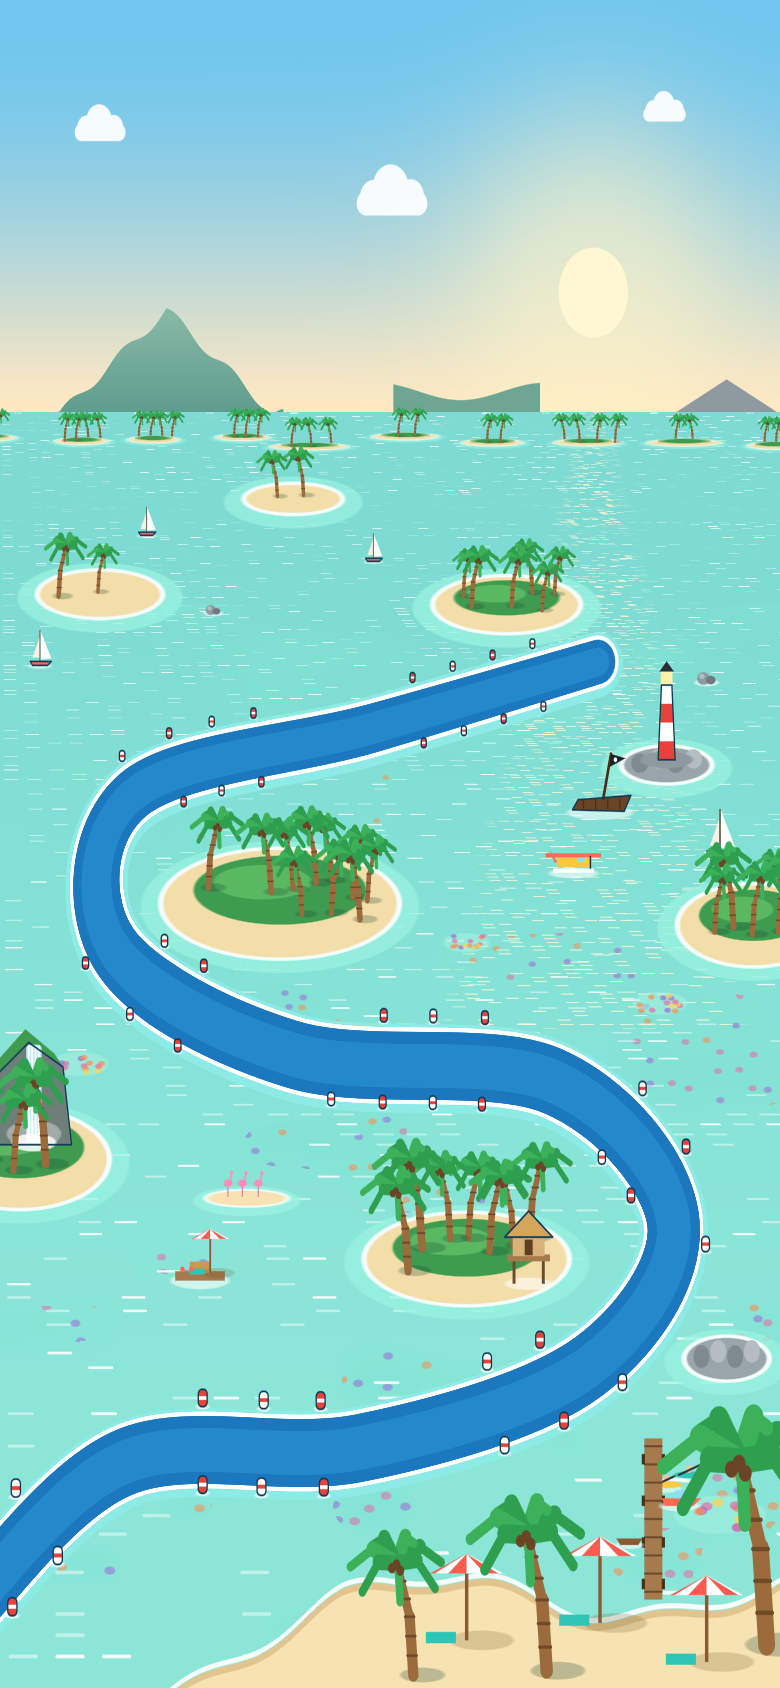
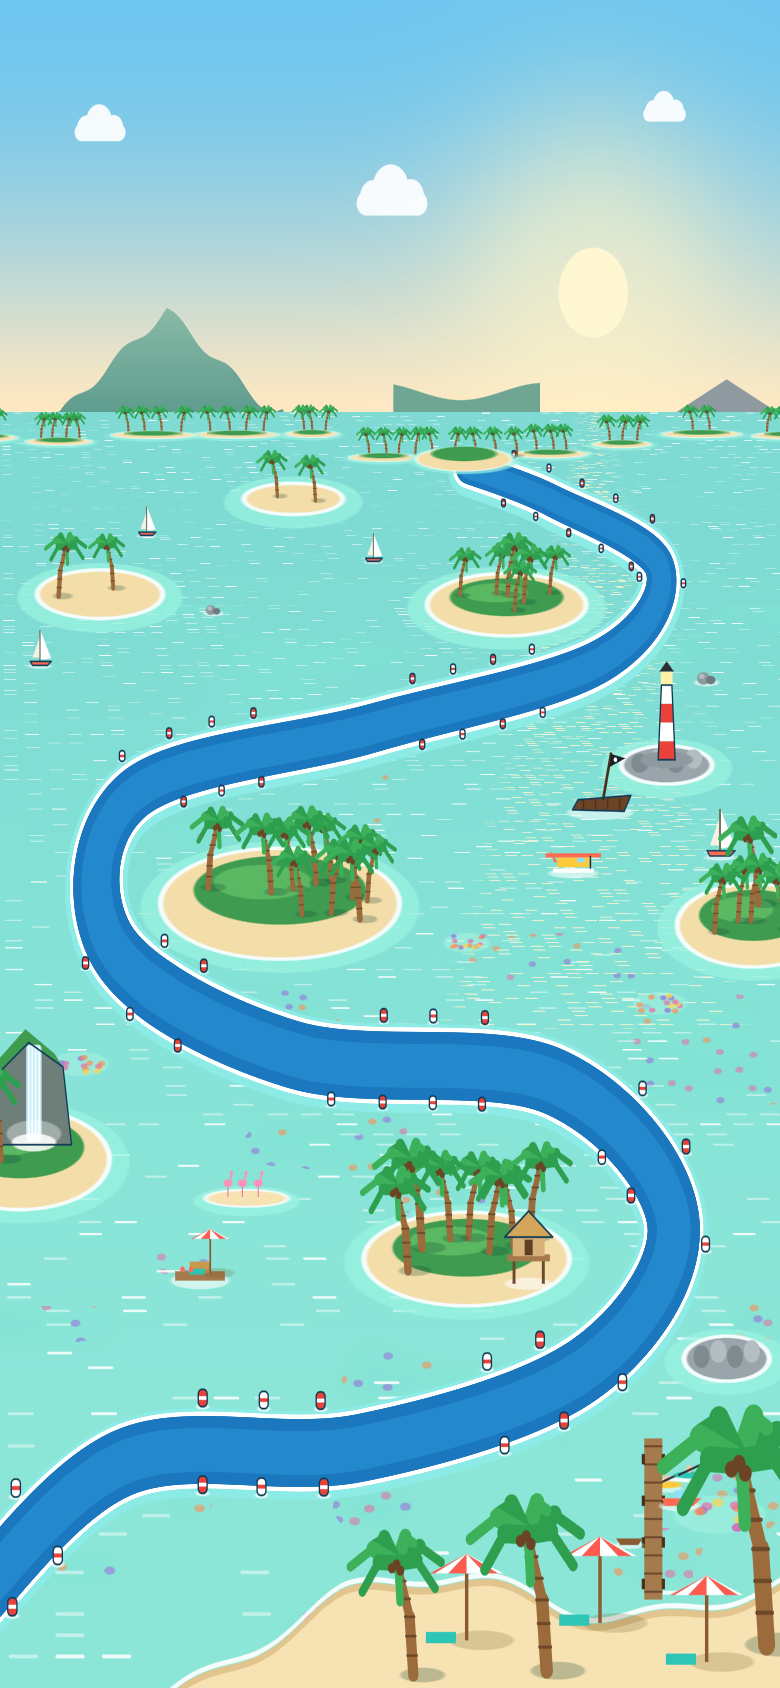
Water Cup map: after race 8 the lane winds on up to the horizon and is lost among the palm atolls there (an atoll over its end)

diff --git a/Assets/Scripts/Editor/MapArtGenerator.Water.cs b/Assets/Scripts/Editor/MapArtGenerator.Water.cs
@@ -251,7 +251,7 @@ namespace SomeGame.EditorTools
             for (int i = 1; i < road.Count; i++)
             {
                 var (p, dist) = road[i];
-                if (dist < next || p.y < 120f) continue;
+                if (dist < next || p.y < 120f || p.y > 1395f) continue; // (none in the far distance)
                 float w = RoadWidth(p.y), s = SizeAt(p.y);
                 next = dist + Mathf.Lerp(90f, 50f, Mathf.InverseLerp(200f, 1400f, p.y));
                 Vector2 dir = (p - road[i - 1].p).normalized, normal = new(-dir.y, dir.x);
@@ -337,21 +337,29 @@ namespace SomeGame.EditorTools
             foreach (var p in new[] { new Vector2(700f, 55f), new Vector2(900f, 75f), new Vector2(1060f, 30f) })
                 items.Add((p.y, () => BeachUmbrella(p, SizeAt(p.y) * 1.4f)));
 
-            // The horizon: a chain of little atolls with palms all along it, like the far forests of the other maps.
+            // The horizon: a chain of little atolls with palms all along it, like the far forests of the other maps;
+            // the lane winds in between them and is lost behind the one in front of its end.
             var atolls = new System.Random(5);
-            for (float ax = -20f; ax < 1200f; ax += 95f + (float)atolls.NextDouble() * 50f)
+            var laneEnd = Unstretch(MapLayout.Samples[MapLayout.Samples.Count - 1]);
+            var spots = new List<(Vector2 c, float rx, float ry)>
             {
-                var c = new Vector2(ax, Horizon - 22f - (float)atolls.NextDouble() * 16f);
-                float rx = 34f + (float)atolls.NextDouble() * 26f;
-                int count = 2 + atolls.Next(3);
+                (laneEnd + new Vector2(-4f, 10f), 70f, 14f), // over the lane's end, hiding it
+                (laneEnd + new Vector2(-125f, 12f), 48f, 5f),
+                (laneEnd + new Vector2(125f, 16f), 52f, 5f),
+            };
+            for (float ax = -20f; ax < 1200f; ax += 95f + (float)atolls.NextDouble() * 50f)
+                if (Mathf.Abs(ax - laneEnd.x) > 175f) spots.Add((new Vector2(ax, Horizon - 22f - (float)atolls.NextDouble() * 16f), 34f + (float)atolls.NextDouble() * 26f, 4.5f));
+            foreach (var (c, rx, ry) in spots)
+            {
+                int count = 2 + atolls.Next(3) + (ry > 6f ? 2 : 0);
                 var tops = new List<(Vector2, bool)>();
-                for (int k = 0; k < count; k++) tops.Add((c + new Vector2((k - (count - 1) * 0.5f) * rx * 0.5f + (float)atolls.NextDouble() * 6f, 1f), atolls.NextDouble() < 0.5));
+                for (int k = 0; k < count; k++) tops.Add((c + new Vector2((k - (count - 1) * 0.5f) * rx * 0.45f + (float)atolls.NextDouble() * 6f, ry * 0.3f), atolls.NextDouble() < 0.5));
                 items.Add((c.y + 1f, () =>
                 {
-                    Ellipse(c + new Vector2(0f, -1f), rx + 12f, 6f, new Color(0.6f, 0.95f, 0.88f, 0.7f));
-                    Ellipse(c, rx + 3f, 4.5f, new Color(1f, 1f, 1f, 0.9f));
-                    Ellipse(c, rx, 3.6f, Hex("F3DDA8"));
-                    Ellipse(c + new Vector2(0f, 2f), rx * 0.7f, 2.6f, Hex("3E9B4F"));
+                    Ellipse(c + new Vector2(0f, -1f), rx + 12f, ry + 2f, new Color(0.6f, 0.95f, 0.88f, 0.7f));
+                    Ellipse(c, rx + 3f, ry, new Color(1f, 1f, 1f, 0.9f));
+                    Ellipse(c, rx, ry - 0.9f, Hex("F3DDA8"));
+                    Ellipse(c + new Vector2(0f, ry * 0.45f), rx * 0.7f, ry * 0.6f, Hex("3E9B4F"));
                 }));
                 foreach (var (p, lean) in tops) items.Add((p.y, () => MapPalm(p, SizeAt(p.y) * 0.62f, lean)));
             }

diff --git a/Assets/Scripts/UI/MapLayout.cs b/Assets/Scripts/UI/MapLayout.cs
@@ -121,8 +121,8 @@ namespace SomeGame.UI
         public static readonly MapRoad Water = new(new Vector2[]
         {
             new(-40f, 130f), new(190f, 340f), new(540f, 360f), new(880f, 480f), new(1010f, 700f), new(830f, 910f), new(440f, 950f),
-            new(170f, 1110f), new(200f, 1340f), new(560f, 1440f), new(900f, 1540f),
-        }, 1, 10, 8); // (it ends at race 8)
+            new(170f, 1110f), new(200f, 1340f), new(560f, 1440f), new(900f, 1540f), new(990f, 1680f), new(830f, 1780f), new(700f, 1830f),
+        }, 1, 10, 8); // (after race 8 it winds on into the atolls on the horizon)
 
         public static MapRoad Of(CupLook look) => look switch { CupLook.Winter => Winter, CupLook.Water => Water, _ => Valley };
 
